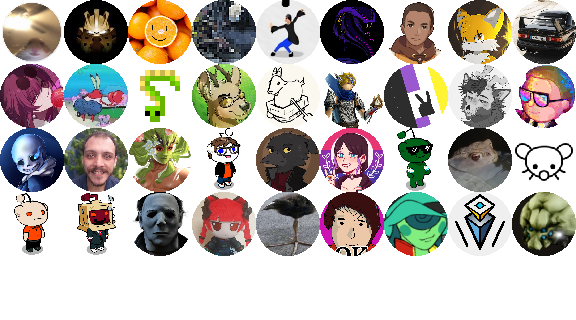
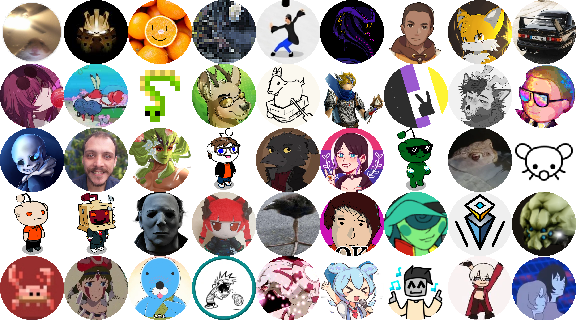
updated the author list

Changed region(s): [[0.0, 0.7812, 0.7812, 1.0], [0.7812, 0.7812, 1.0, 1.0], [0.375, 0.7812, 0.4062, 0.8125]]

diff --git a/core/src/main/java/com/shatteredpixel/shatteredpixeldungeon/scenes/AboutScene.java b/core/src/main/java/com/shatteredpixel/shatteredpixeldungeon/scenes/AboutScene.java
@@ -42,9 +42,6 @@ import com.watabou.noosa.Image;
 import com.watabou.noosa.PointerArea;
 import com.watabou.noosa.ui.Component;
 
-import java.util.ArrayList;
-import java.util.List;
-
 public class AboutScene extends PixelScene {
 
 	private static class AuthorInfo {
@@ -93,7 +90,16 @@ public class AboutScene extends PixelScene {
 		new AuthorInfo("Hrohlu", "hrohlu"),
 		new AuthorInfo("Gamma", "gammalolman"),
 		new AuthorInfo("QKuroire", "qkuroire"),
-		new AuthorInfo("Lootbug", "thelootbug")
+		new AuthorInfo("Lootbug", "thelootbug"),
+		new AuthorInfo("下水道螃蟹", ""),
+		new AuthorInfo("-Rivlin- speedrunner #1", "-rivlin-"),
+		new AuthorInfo("MapleOak", "mapleoak-number-61"),
+		new AuthorInfo("Heapheaus", "heapheaus"),
+		new AuthorInfo("484 Palkia", "zrp200"),
+		new AuthorInfo("星月夜", "MoonSaya"),
+		new AuthorInfo("Pixedex", "pixedex"),
+		new AuthorInfo("DanteSuParda", "yeldzy"),
+		new AuthorInfo("kryr the wrong server guy", "isothedragon")
 	};
 
 	@Override
@@ -157,7 +163,7 @@ public class AboutScene extends PixelScene {
 
 		float creditWidth = Math.min(Camera.main.width / 3f, colWidth / 2f);
 
-		for (int i = 0; i < 36; i++){
+		for (int i = 0; i < 45; i++){
 			if (i % 3 == 0 && i != 0)
 				currentDepth += 36;
 
